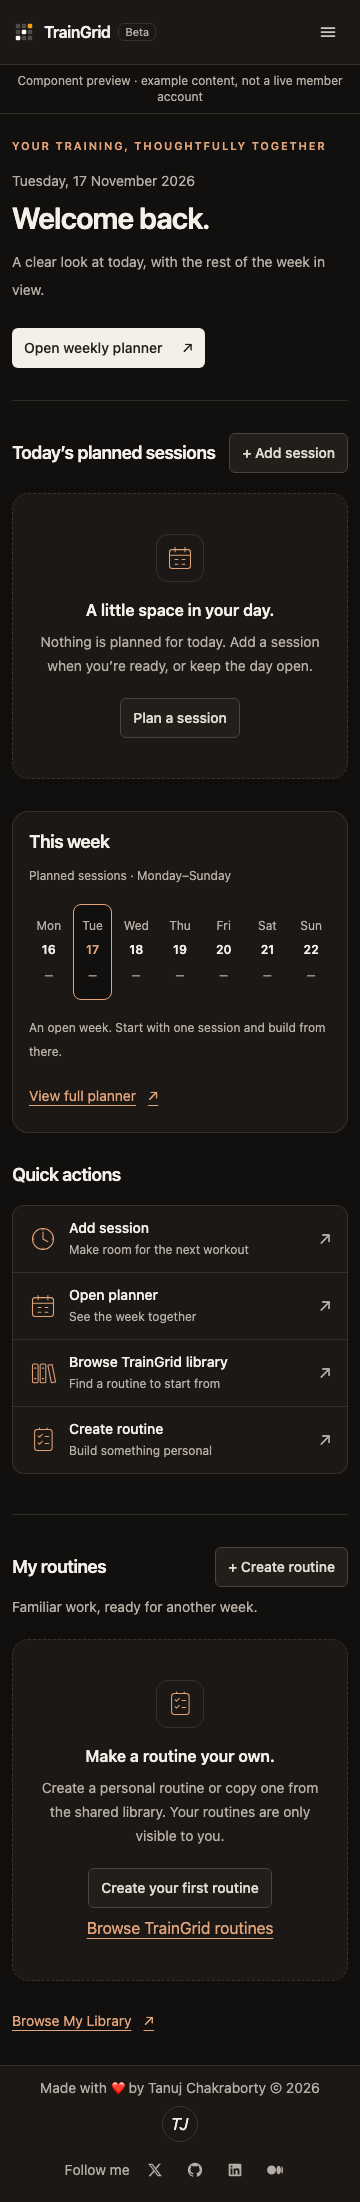
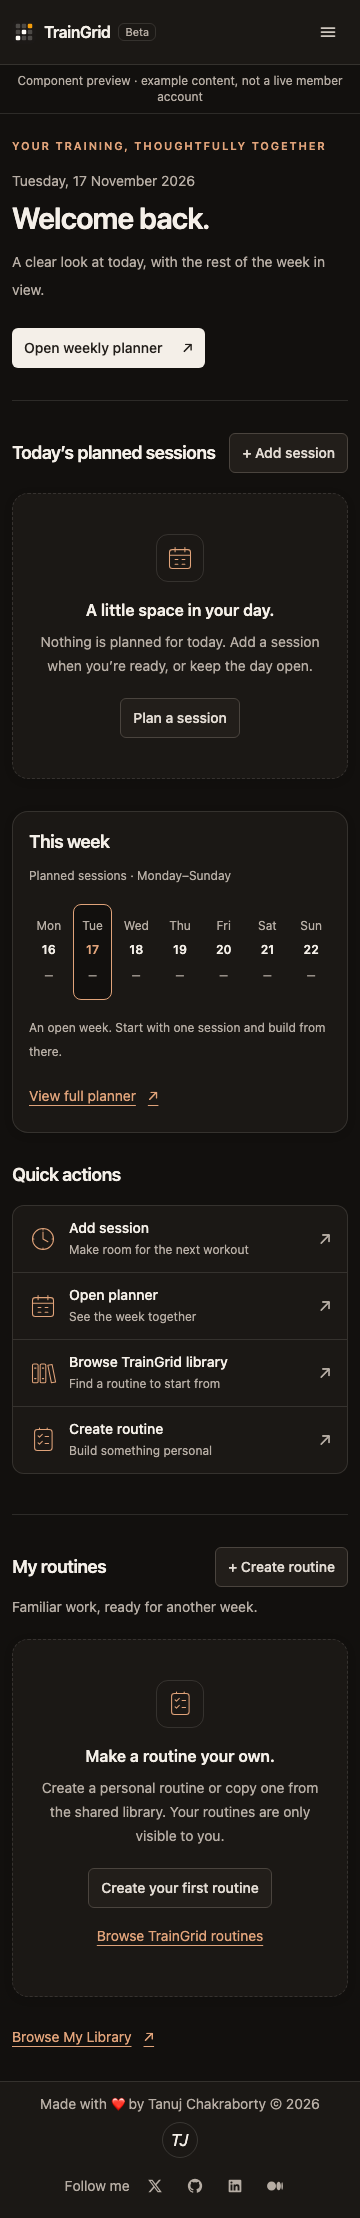
fix(ui): confirm routine deletion in modal and align empty-state actions

diff --git a/e2e/routine-delete-modal.spec.ts b/e2e/routine-delete-modal.spec.ts
@@ -1,0 +1,70 @@
+import { mkdir } from "node:fs/promises";
+import { expect, test } from "@playwright/test";
+import { accessibilityResults } from "../tests/helpers/accessibility";
+import { createRoutine } from "./planner-helpers";
+import { signInAsNewLocalMember } from "./local-supabase";
+
+test("routine deletion modal is accessible, responsive and safely dismissible", async ({
+  page,
+  context,
+  baseURL,
+}) => {
+  await signInAsNewLocalMember(context, baseURL!);
+  const routine = await createRoutine(
+    page,
+    "Modal review routine",
+    "strength",
+    [["Squat", "3 × 5"]],
+  );
+  await page.goto(`${routine}/edit`);
+  page.on("dialog", () => {
+    throw new Error("Routine deletion must not use a browser prompt");
+  });
+  for (const scheme of ["light", "dark"] as const) {
+    await page.emulateMedia({ colorScheme: scheme, reducedMotion: "reduce" });
+    for (const width of [320, 1440]) {
+      await page.setViewportSize({ width, height: 740 });
+      const trigger = page.getByRole("button", {
+        name: "Delete routine",
+        exact: true,
+      });
+      await trigger.click();
+      const dialog = page.getByRole("dialog", { name: "Delete this routine?" });
+      await expect(dialog).toBeVisible();
+      await expect(
+        dialog.getByRole("button", { name: "Cancel", exact: true }),
+      ).toBeFocused();
+      await expect(dialog).toContainText("keep their own copy of the workout");
+      await page.keyboard.press("Tab");
+      await expect(
+        dialog.getByRole("button", { name: "Delete routine", exact: true }),
+      ).toBeFocused();
+      await page.keyboard.press("Shift+Tab");
+      await expect(
+        dialog.getByRole("button", { name: "Cancel", exact: true }),
+      ).toBeFocused();
+      await page.getByLabel("Name", { exact: true }).evaluate((element) => element.focus());
+      await expect(dialog.getByRole("button", { name: "Cancel", exact: true })).toBeFocused();
+      const box = (await dialog.boundingBox())!;
+      expect(box.x).toBeGreaterThanOrEqual(0);
+      expect(box.x + box.width).toBeLessThanOrEqual(width);
+      expect((await accessibilityResults(page)).violations).toEqual([]);
+      await mkdir("docs/images/epic-3/enhancements", { recursive: true });
+      await page.screenshot({
+        path: `docs/images/epic-3/enhancements/delete-routine-${width}-${scheme}.png`,
+        style: "nextjs-portal { display: none !important; }",
+      });
+      await page.keyboard.press("Escape");
+      await expect(dialog).not.toBeVisible();
+      await expect(trigger).toBeFocused();
+      await trigger.click();
+      await dialog.getByRole("button", { name: "Cancel", exact: true }).click();
+      await expect(dialog).not.toBeVisible();
+      await expect(trigger).toBeFocused();
+      await expect(page).toHaveURL(`${routine}/edit`);
+      await expect(page.getByLabel("Name", { exact: true })).toHaveValue(
+        "Modal review routine",
+      );
+    }
+  }
+});

diff --git a/components/library/DeleteRoutineButton.tsx b/components/library/DeleteRoutineButton.tsx
@@ -1,0 +1,68 @@
+"use client";
+
+import { useId, useRef, useState } from "react";
+import { ActionSubmit } from "@/components/ui/ActionSubmit";
+import { deleteRoutineAction } from "@/lib/actions";
+import { btnDanger, btnSecondary } from "@/lib/ui";
+
+/** Native modal provides focus containment, Escape dismissal and focus restoration. */
+export function DeleteRoutineButton({ routineId }: { routineId: string }) {
+  const dialog = useRef<HTMLDialogElement>(null);
+  const cancel = useRef<HTMLButtonElement>(null);
+  const [submitting, setSubmitting] = useState(false);
+  const titleId = useId();
+  const descriptionId = useId();
+
+  return (
+    <>
+      <button
+        type="button"
+        className={btnDanger}
+        onClick={() => {
+          dialog.current?.showModal();
+          cancel.current?.focus();
+        }}
+      >
+        Delete routine
+      </button>
+      <dialog
+        ref={dialog}
+        aria-labelledby={titleId}
+        aria-describedby={descriptionId}
+        onCancel={(event) => {
+          if (submitting) event.preventDefault();
+        }}
+        className="ui-panel m-auto max-h-[calc(100dvh-2rem)] w-[calc(100%-2rem)] max-w-md overflow-y-auto p-5 text-foreground backdrop:bg-black/50 sm:p-6"
+      >
+        <h2 id={titleId} className="text-xl font-semibold">
+          Delete this routine?
+        </h2>
+        <p id={descriptionId} className="mt-3 text-sm leading-6 text-stone-600">
+          This permanently deletes your routine. Sessions already on your
+          calendar keep their own copy of the workout.
+        </p>
+        <form
+          action={deleteRoutineAction}
+          onSubmit={() => setSubmitting(true)}
+          className="mt-6 flex flex-wrap justify-end gap-2"
+        >
+          <input type="hidden" name="id" value={routineId} />
+          <button
+            ref={cancel}
+            type="button"
+            disabled={submitting}
+            className={btnSecondary}
+            onClick={() => dialog.current?.close()}
+          >
+            Cancel
+          </button>
+          <ActionSubmit
+            label="Delete routine"
+            busy="Deleting…"
+            className={btnDanger}
+          />
+        </form>
+      </dialog>
+    </>
+  );
+}

diff --git a/components/library/RoutineEditor.tsx b/components/library/RoutineEditor.tsx
@@ -2,10 +2,11 @@
 
 import Link from "next/link";
 import { ActionSubmit } from "@/components/ui/ActionSubmit";
-import { deleteRoutineAction, upsertRoutineAction } from "@/lib/actions";
+import { upsertRoutineAction } from "@/lib/actions";
 import type { Routine } from "@/lib/data/model";
 import { SESSION_TYPES, SESSION_TYPE_LABELS } from "@/lib/domain";
-import { btnDanger, btnPrimary, btnSecondary, fieldClass } from "@/lib/ui";
+import { btnPrimary, btnSecondary, fieldClass } from "@/lib/ui";
+import { DeleteRoutineButton } from "./DeleteRoutineButton";
 import { WorkoutItemEditor } from "./WorkoutItemEditor";
 
 /** Creates or edits one of the member's own routines. */
@@ -72,27 +73,7 @@ export function RoutineEditor({ routine }: { routine: Routine | null }) {
         </div>
       </form>
 
-      {routine ? (
-        <form
-          action={deleteRoutineAction}
-          onSubmit={(e) => {
-            if (
-              !confirm(
-                "Delete this routine? Sessions already on your calendar keep their own copy of the workout.",
-              )
-            ) {
-              e.preventDefault();
-            }
-          }}
-        >
-          <input type="hidden" name="id" value={routine.id} />
-          <ActionSubmit
-            label="Delete routine"
-            busy="Deleting…"
-            className={btnDanger}
-          />
-        </form>
-      ) : null}
+      {routine ? <DeleteRoutineButton routineId={routine.id} /> : null}
     </div>
   );
 }

diff --git a/tests/ui/member-experience.spec.ts b/tests/ui/member-experience.spec.ts
@@ -205,3 +205,19 @@ test("dashboard links support keyboard focus with reduced motion", async ({
     await day.evaluate((el) => getComputedStyle(el).transitionDuration),
   ).toBe("0s");
 });
+
+test("empty routine actions align in a centered row and wrap cleanly on phones", async ({ page }) => {
+  await page.goto(`${preview}/dashboard-no-routines.html`);
+  const create = page.getByRole("link", { name: "Create your first routine", exact: true });
+  const browse = page.getByRole("link", { name: "Browse TrainGrid routines", exact: true });
+  for (const width of [320, 1440]) {
+    await page.setViewportSize({ width, height: 900 });
+    const first = (await create.boundingBox())!;
+    const second = (await browse.boundingBox())!;
+    if (width === 1440) expect(Math.abs(first.y + first.height / 2 - second.y - second.height / 2)).toBeLessThanOrEqual(1);
+    else expect(second.y).toBeGreaterThanOrEqual(first.y + first.height);
+    await mkdir("docs/images/epic-3/enhancements", { recursive: true });
+    await page.screenshot({ path: `docs/images/epic-3/enhancements/empty-routines-${width}.png`, fullPage: true });
+    expect(await page.evaluate(() => document.documentElement.scrollWidth <= innerWidth)).toBe(true);
+  }
+});

diff --git a/e2e/ui-03.spec.ts b/e2e/ui-03.spec.ts
@@ -263,8 +263,8 @@ test("routine and session screens retain structured controls and fit both themes
   await page.goto(`${routinePath}/edit`);
   await expect(page.getByLabel("Rest", { exact: true }).first()).toHaveValue("2–3 minutes");
   await expect(page.getByRole("button", { name: "Barbell", exact: true }).first()).toHaveAttribute("aria-pressed", "true");
-  page.once("dialog", (dialog) => dialog.dismiss());
   await page.getByRole("button", { name: "Delete routine", exact: true }).click();
+  await page.getByRole("dialog").getByRole("button", { name: "Cancel", exact: true }).click();
   await expect(page).toHaveURL(new RegExp(`${routinePath}/edit$`));
   await page.goto(`${sessionPath}/edit`);
   page.once("dialog", (dialog) => dialog.dismiss());

diff --git a/components/dashboard/MemberDashboard.tsx b/components/dashboard/MemberDashboard.tsx
@@ -231,7 +231,7 @@ export function MemberDashboard({ state }: { state: DashboardState }) {
                   <Link href={data.createRoutineHref} className={btnSecondary}>
                     Create your first routine
                   </Link>
-                  <Link href={data.sharedLibraryHref} className={textLink}>
+                  <Link href={data.sharedLibraryHref} className={`${textLink} inline-flex min-h-10 items-center text-sm`}>
                     Browse TrainGrid routines
                   </Link>
                 </>

diff --git a/e2e/authorization.spec.ts b/e2e/authorization.spec.ts
@@ -167,6 +167,7 @@ test.describe("member A against member B's data", () => {
     await page.goto(`${mine}/edit`);
     await forge(page, "id", bRoutine);
     await page.getByRole("button", { name: "Delete routine" }).click();
+  await page.getByRole("dialog", { name: "Delete this routine?" }).getByRole("button", { name: "Delete routine", exact: true }).click();
     await expect(page.getByRole("heading", { name: ERROR_HEADING })).toBeVisible();
     expect(await bRoutineRow()).toBeDefined();
   });

diff --git a/e2e/planner.spec.ts b/e2e/planner.spec.ts
@@ -79,6 +79,7 @@ test("D9: a member creates, views, edits and deletes their own routine", async (
 
   await page.getByRole("link", { name: "Edit routine" }).click();
   await page.getByRole("button", { name: "Delete routine" }).click();
+  await page.getByRole("dialog", { name: "Delete this routine?" }).getByRole("button", { name: "Delete routine", exact: true }).click();
   await expect(page).toHaveURL(/\/library$/);
   await expect(page.getByText("My Lower")).toHaveCount(0);
 });

diff --git a/e2e/journeys.spec.ts b/e2e/journeys.spec.ts
@@ -117,6 +117,7 @@ test("D2, D3: editing or deleting a routine never changes a scheduled session", 
 
   await page.goto(`${routineUrl}/edit`);
   await page.getByRole("button", { name: "Delete routine" }).click();
+  await page.getByRole("dialog", { name: "Delete this routine?" }).getByRole("button", { name: "Delete routine", exact: true }).click();
   await page.waitForURL(/\/library$/);
 
   await page.goto(sessionUrl);

diff --git a/components/ui/Presentation.tsx b/components/ui/Presentation.tsx
@@ -50,7 +50,7 @@ export function EmptyState({
         {children}
       </div>
       {action && (
-        <div className="mt-5 flex flex-wrap justify-center gap-2">{action}</div>
+        <div className="mt-5 flex flex-wrap items-center justify-center gap-2">{action}</div>
       )}
     </div>
   );

diff --git a/agents/EPIC-3-UI-VERIFICATION.md b/agents/EPIC-3-UI-VERIFICATION.md
@@ -59,3 +59,13 @@ The UI-03 directory also contains refreshed invitation, routine/editor and sessi
 ## Completion boundary
 
 UI-01–04 presentation and specified regression coverage are implemented for review. Public root publication, authenticated `/home`/member data, post-login redirect coordination and actual email sending/delivery/retry remain unimplemented Claude responsibilities. Inbox-client rendering awaits the selected provider. See EPIC-3-UI-HANDOFF.md sections 1–8 and its final boundary table. No production data operations, schema, new endpoints, authorization or OAuth redesign occurred. Manual review and merge only.
+
+## Follow-up — routine confirmation and empty-state alignment
+
+After integration PR #41 merged, based on reviewed main `a28f834`: routine deletion now opens a themed native HTML modal rather than `window.confirm`. Cancel receives initial focus; Escape/Cancel dismiss and return focus to the trigger; background content is inert. The existing delete server action, hidden routine id, authorization and preservation of scheduled workout snapshots are unchanged. Submission shows Deleting… and prevents repeated submission or dismissal while pending. Other existing confirmation flows are outside this change.
+
+The dashboard's empty-routine actions now share a centered cross-axis alignment, matching text size and minimum control height, and wrap into centered rows on narrow screens.
+
+Verification: lint/typecheck/secret scan pass; 49 component browser tests pass (including desktop center alignment and phone wrapping); 32 affected app regressions pass plus the focused modal test in light/dark at 320/1440px. The latter verifies initial focus, Tab/Shift+Tab between actions, background focus exclusion, Escape/Cancel focus restoration, viewport fit, no native JavaScript prompt, and zero axe violations. Actual deletion, ownership protection and scheduled-copy preservation are covered by the updated existing regressions. Native dialogs allow browser-chrome focus; checks cover intra-dialog Tab order and background inertness.
+
+Review captures: [desktop modal](../docs/images/epic-3/enhancements/delete-routine-1440-light.png), [mobile modal](../docs/images/epic-3/enhancements/delete-routine-320-dark.png), [desktop alignment](../docs/images/epic-3/enhancements/empty-routines-1440.png), [mobile alignment](../docs/images/epic-3/enhancements/empty-routines-320.png). Modal captures use the live local app; alignment captures are labelled component examples.
